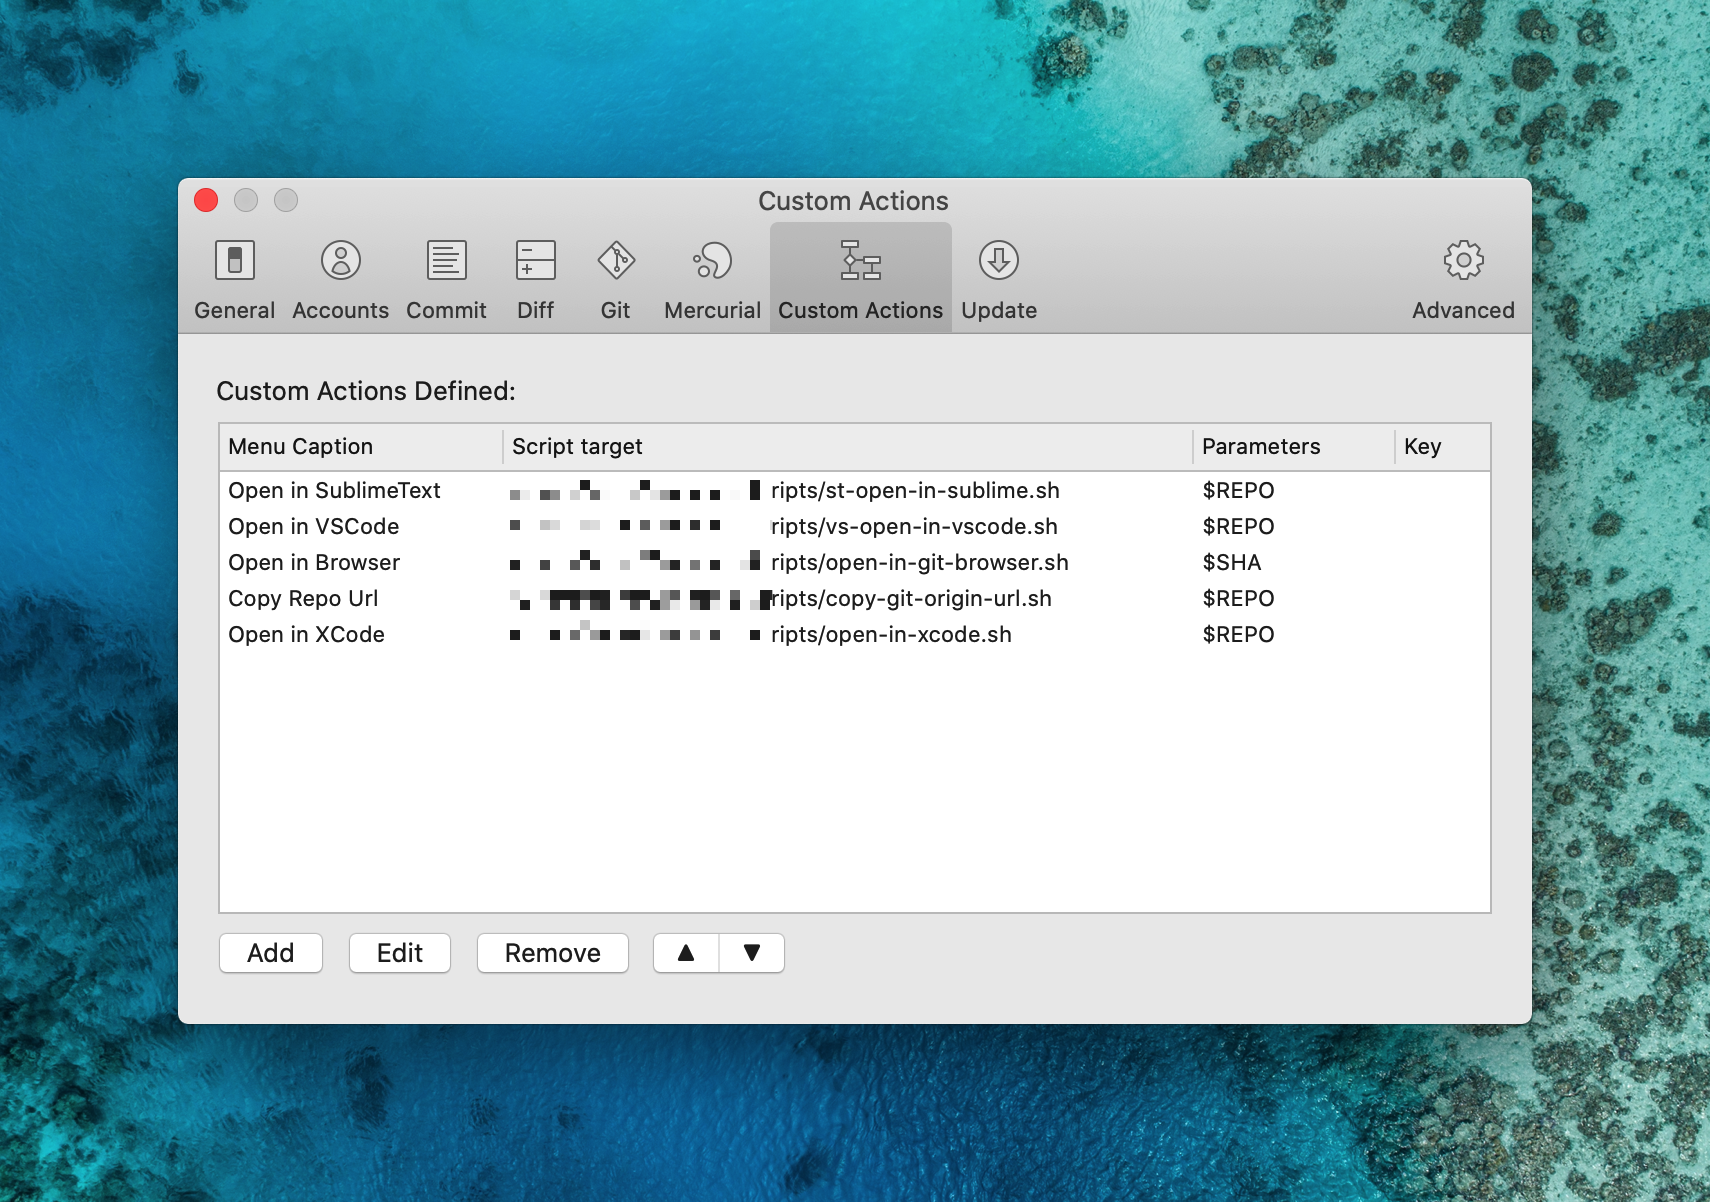
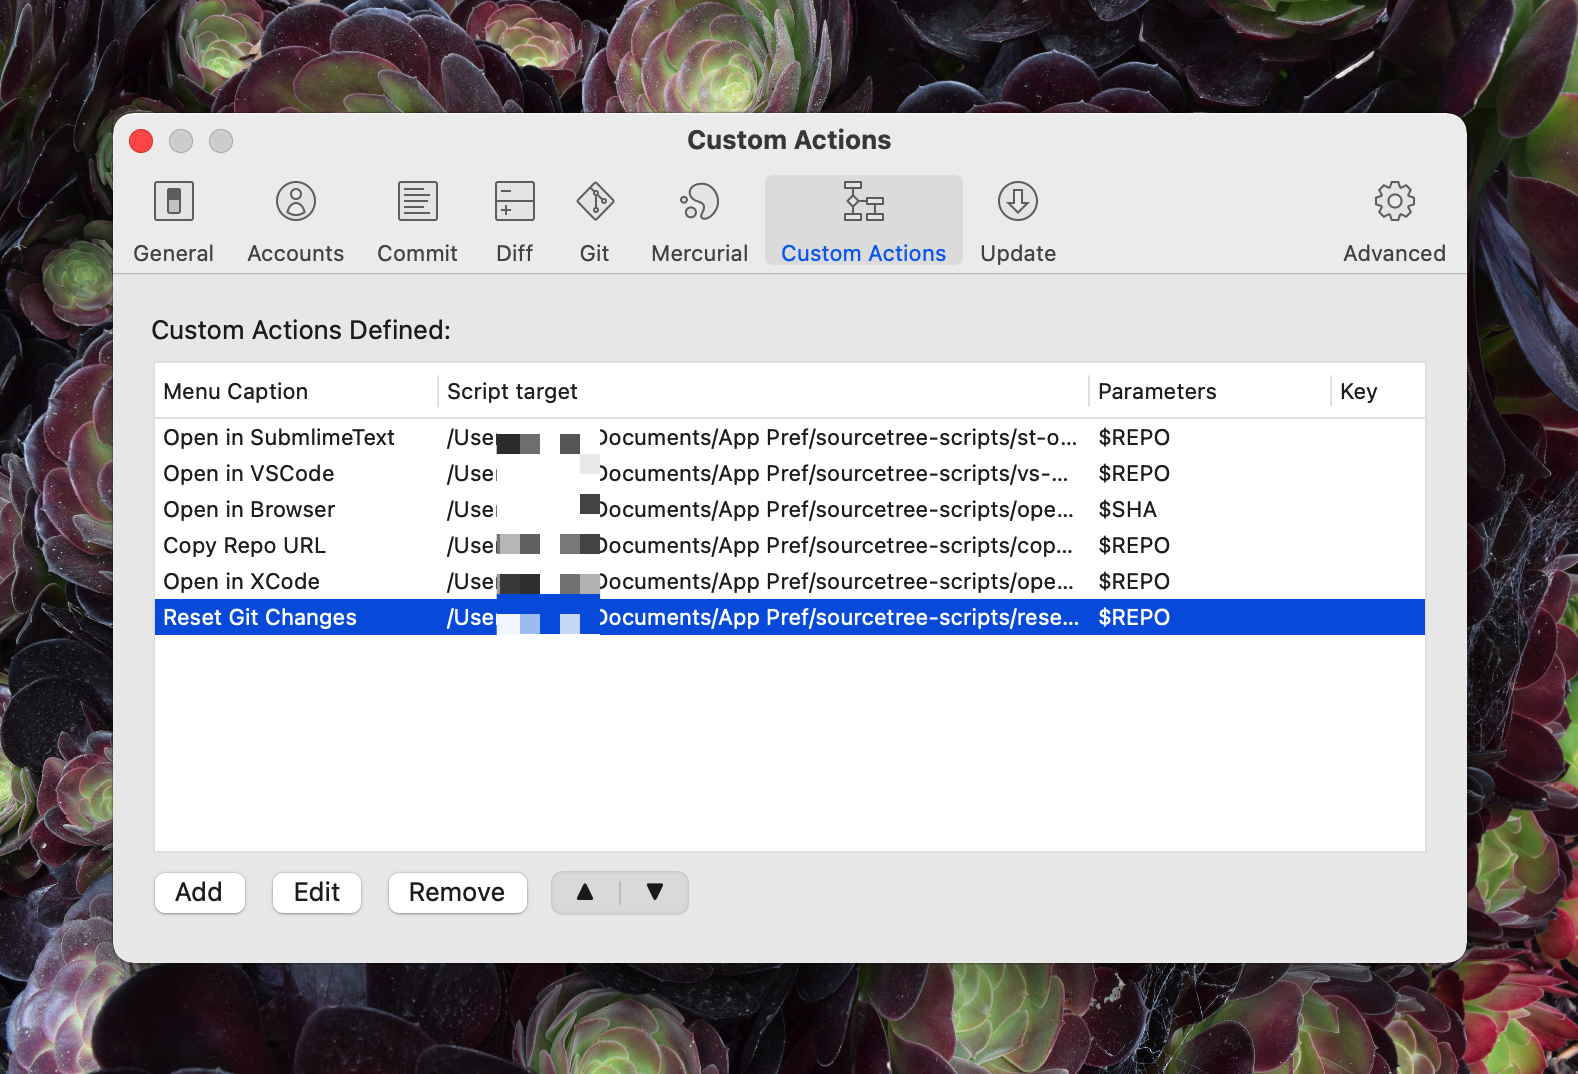
feat: add reset-git.sh

diff --git a/README.md b/README.md
@@ -5,6 +5,7 @@ Useful [SourceTree](https://www.sourcetreeapp.com/) custom actions bash scripts.
 - Open Select commit in Browser(Support github/gitlab)
 - Copy current Repo Url to Clipboard
 - Open XCode project in XCode
+- Reset any local changes by running `git reset --hard HEAD`
 
 Tested on Mac, but should work on Linux and Windows(Win10 with SubLinux) too(you may need to alter application path in the scripts)
 
